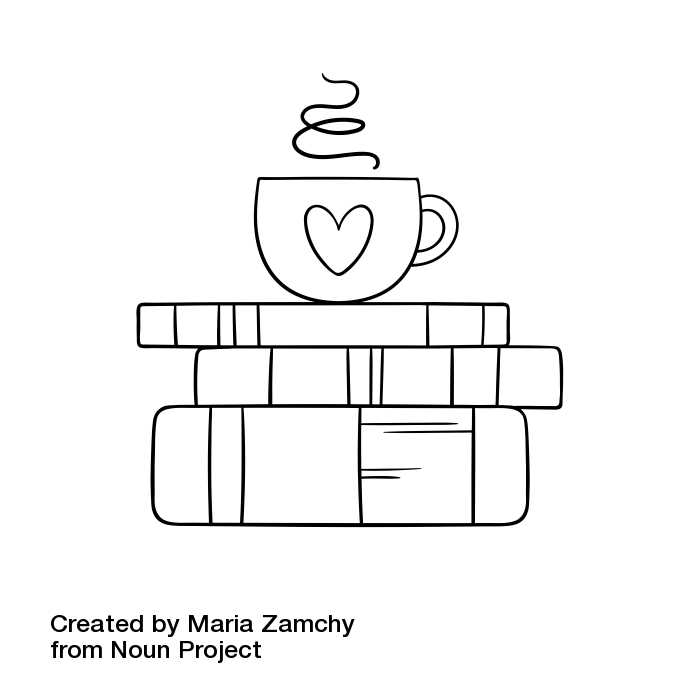
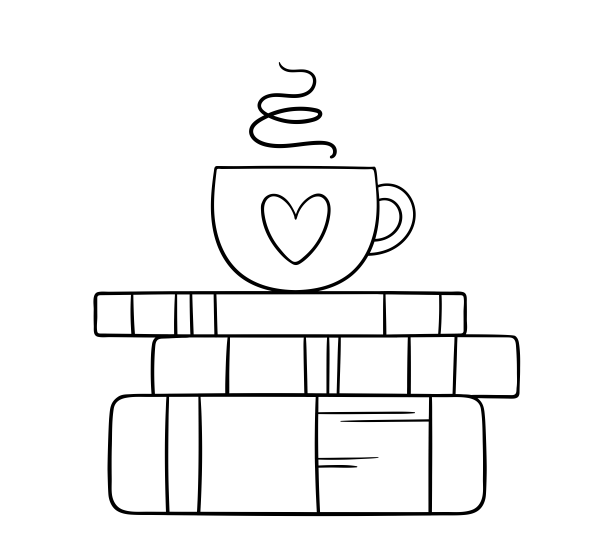
mobile nav, edited images

Changed region(s): [[0.0621, 0.0924, 0.8693, 0.9547]]

diff --git a/Week-9/css/styles.css b/Week-9/css/styles.css
@@ -21,7 +21,8 @@ h1 {
 }
 
 p, li {
-    font-family: "macondo"
+    font-family: "macondo";
+    font-size: 18px;
 }
 
 .container {
@@ -30,7 +31,7 @@ p, li {
 }
 
 img {
-    width: 80%;
+    width: 60%;
 }
 
 /* header */
@@ -73,9 +74,8 @@ img {
 }
 
 iframe {
-    display: block;
-    margin-right: auto;
-    padding-top: 5%;
+    padding-bottom: 3%;
+    align-self: center;
 }
 
 .hero-content {
@@ -93,6 +93,38 @@ iframe {
     flex: 1;
     width: 100%;
     max-width: 500px;
+}
+
+.mobile-header {
+    display: none;
+}
+
+.close {
+    display: none;
+}
+
+.toggle {
+    display: none;
+}
+
+.menu-button {
+    display:flex;
+    flex-direction: column;
+    gap: 0.5rem;
+    cursor: pointer;
+    position: sticky;
+    top: 0px;
+    align-self: flex-start;
+    padding-top: 2.1rem;
+    padding-left: 2.1rem;
+}
+
+.menu-button span {
+    width: 40px;
+    height: 5px;
+    background-color: #4F2B07;
+    border-radius: 5px;
+    transition: all 0.5s ease;
 }
 
 /* subscription plans */
@@ -167,6 +199,50 @@ table th, table td {
 
     .hero-content img {
         visibility: hidden;
+    }
+
+    .mobile-header {
+        display: flex;
+    }
+
+    .sidebar {
+        position: fixed;
+        top: 0;
+        left: 0;
+        width: 250px;
+        height: 100%;
+        transform: translateX(-100%);
+        background-color: #331d00;
+        transition: left 0.8s ease;
+        z-index: 1000;
+    }
+
+    .close {
+        display: inline-block;
+        position: absolute;
+        top: 10px;
+        right: 10px;
+        font-size: 24px;
+        color: #FFF7f0;
+        cursor: pointer;
+    }
+
+    .toggle:checked ~ .sidebar {
+        transform: translateX(0);
+    }
+
+    .toggle:checked ~ .sidebar::before {
+        content: "";
+        position: fixed;
+        top: 0;
+        left: 250px;
+        right: 0;
+        bottom: 0;
+        z-index: -1;
+    }
+
+    #brand-name {
+        display: none;
     }
 }
 

diff --git a/Week-9/product-landing-page.html b/Week-9/product-landing-page.html
@@ -10,11 +10,13 @@
 <link href="https://fonts.googleapis.com/css2?family=Macondo&family=Newsreader:ital,opsz,wght@0,6..72,200..800;1,6..72,200..800&display=swap" rel="stylesheet">
 </head>
 
-<body class="fadeInUp-animation ">
+<body class="fadeInUp-animation">
     <header id="header">
-        <nav>
+        <input type="checkbox" id="toggle" class="toggle">
+        <nav class="sidebar">
+            <label for="toggle" class="close">X</label>
             <ul>
-                <li id="brand-name">Immersia</li>
+                <li id="brand-name"><em>Immersia</em></li>
                 <li><a href="#Home">Home</a></li>
                 <li><a href="#overview">Overview</a></li>
                 <li><a href="#plans">Subscription Plans</a></li>
@@ -22,6 +24,13 @@
                 <li><a href="#Contact-form">Contact Form</a></li>
             </ul>
         </nav>
+        <div class="mobile-header">
+            <label for="toggle" class="menu-button">
+            <span></span>
+            <span></span>
+            <span></span>
+            </label>
+        </div>
     </header>
     <main>
         <!-- main content -->